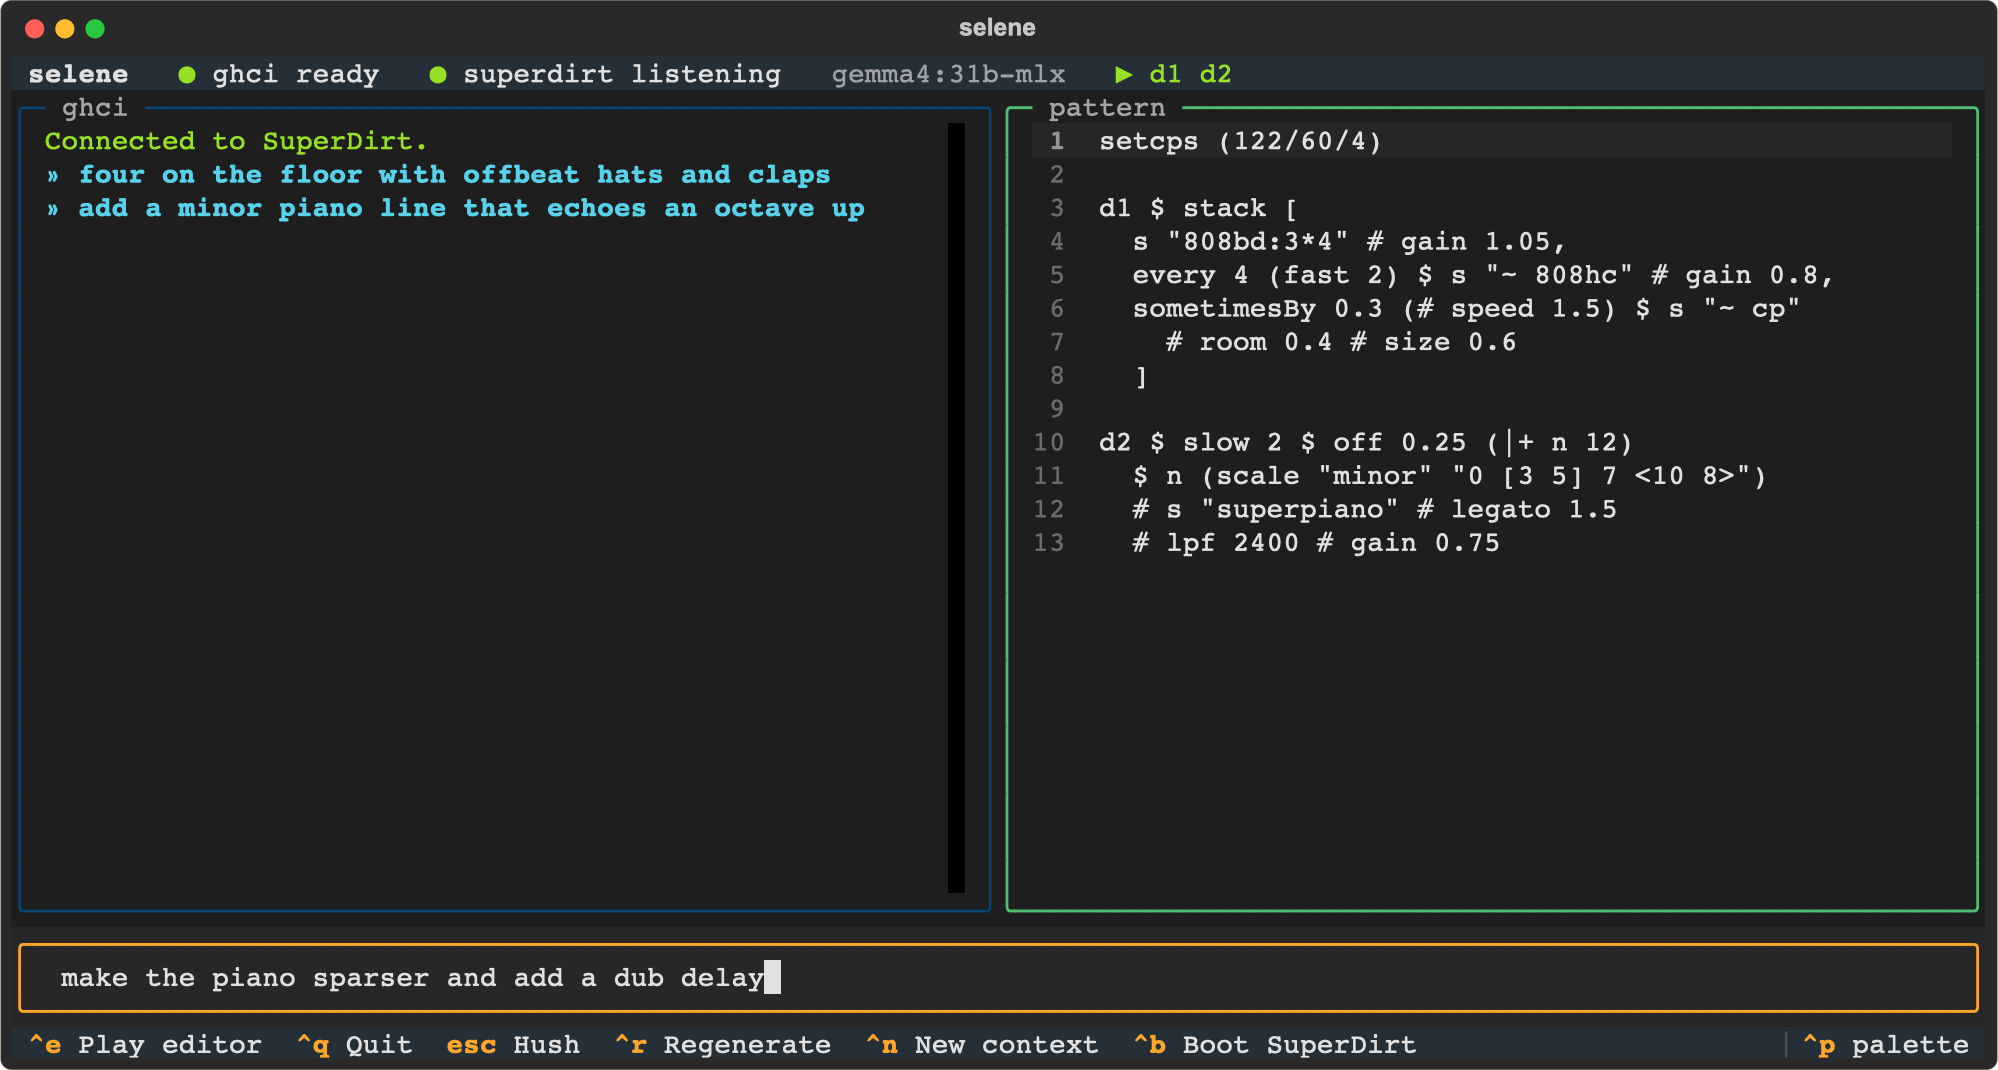
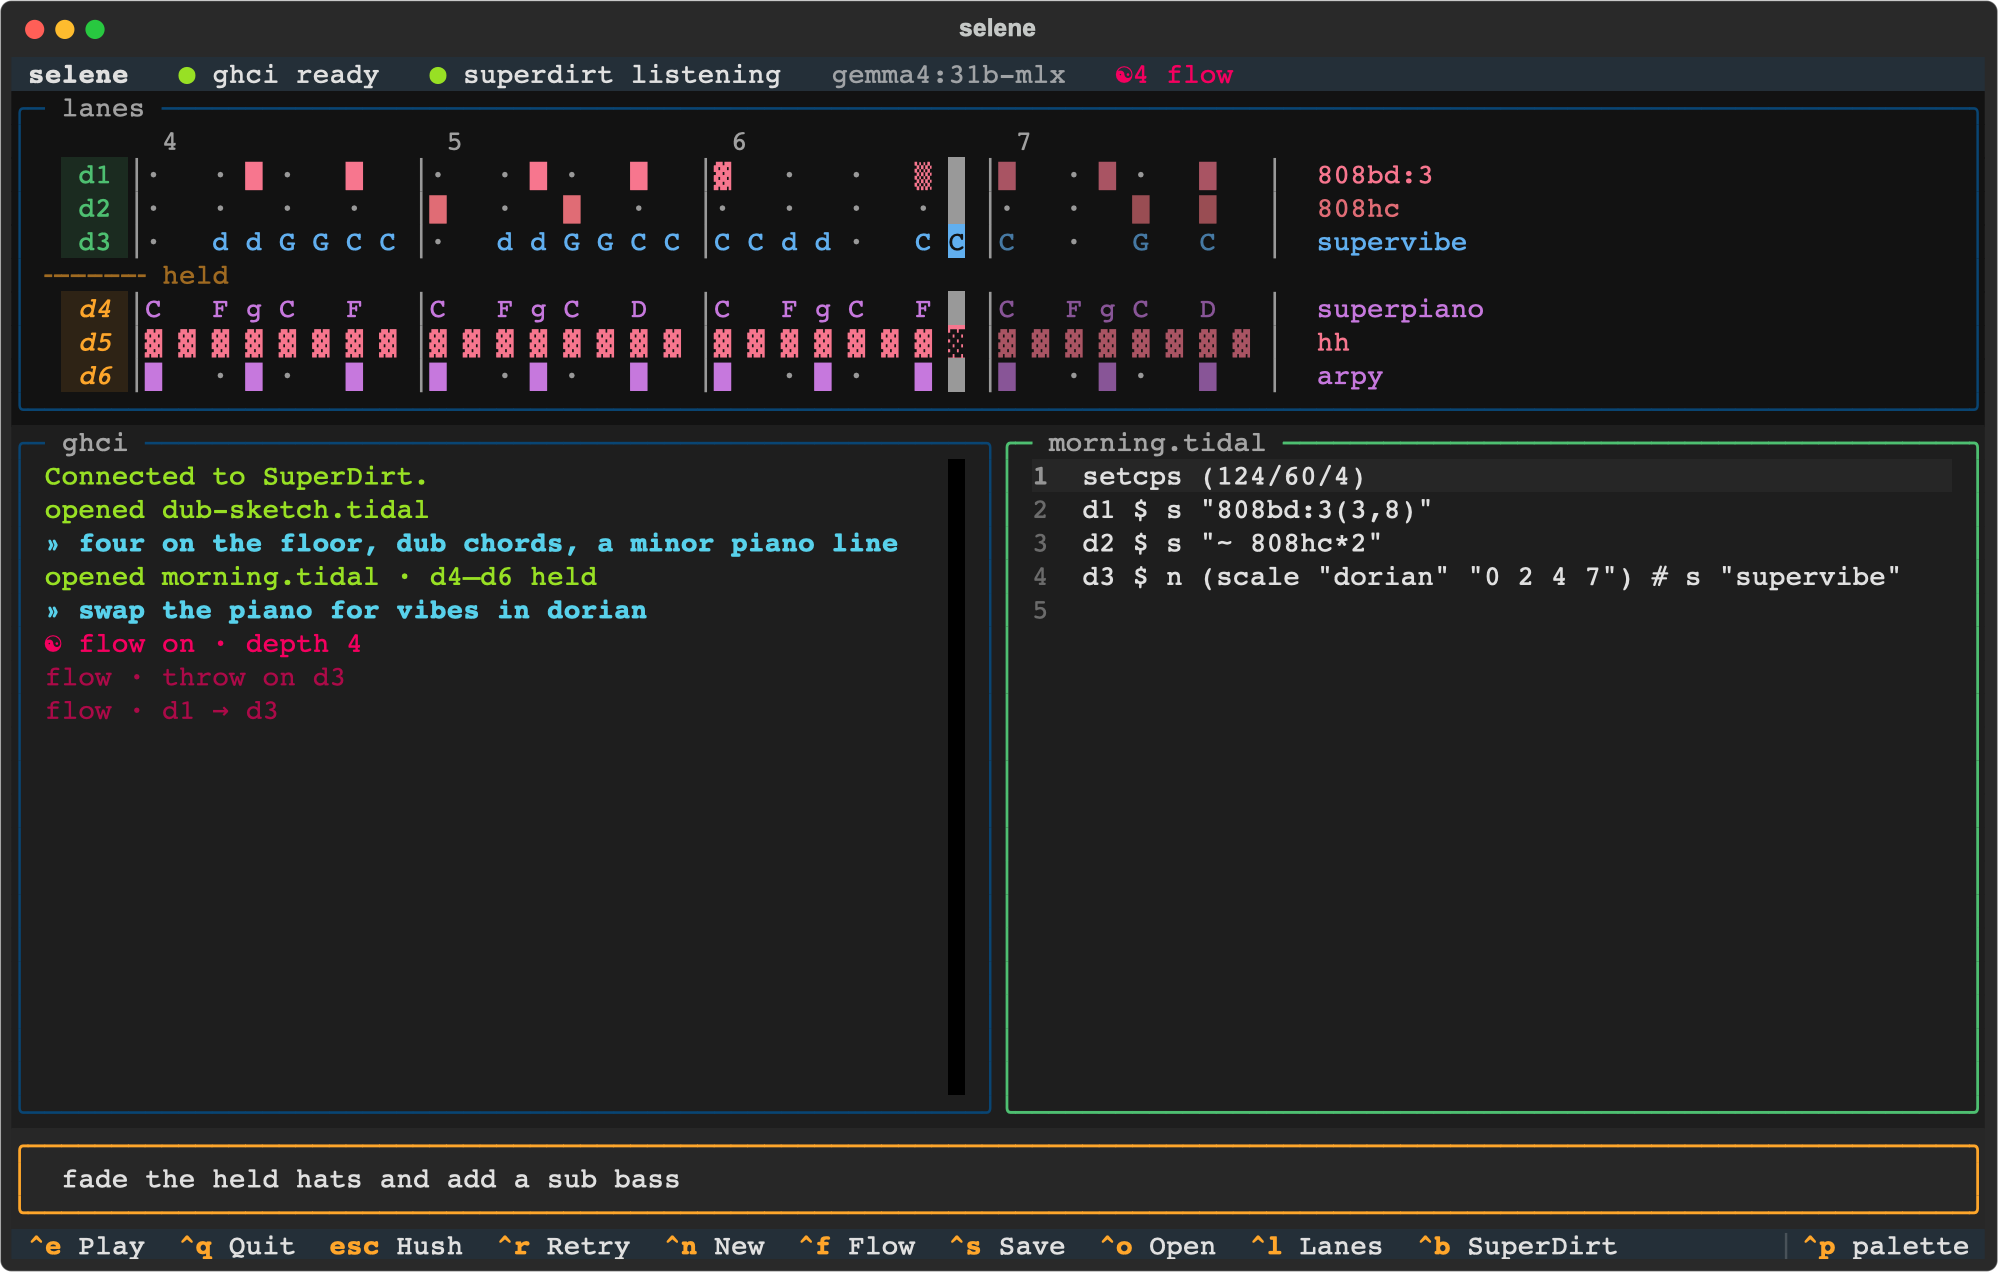
New README screenshot: lanes, held layers and Flow at depth 4
Also: the --boot warning when turning Flow on now checks the file for the
SELENE_CTRL_PORT / SELENE_TAP_PORT lines instead of warning about any boot
file other than the bundled one.

diff --git a/selene/app.py b/selene/app.py
@@ -763,12 +763,19 @@ class Selene(App):
         self._flow_rebase(player=False)
         self._set(flow="flow")
         self.log_line(f"☯ flow on · depth {self.flow_depth}", "magenta")
-        if self.args.boot != str(BUNDLED_BOOT):
-            self.log_line("flow needs SELENE_CTRL_PORT support in a custom --boot "
-                          "(see the bundled BootTidal.hs)", "yellow")
+        if not self._boot_supports_flow():
+            self.log_line("flow needs the SELENE_CTRL_PORT and SELENE_TAP_PORT lines from the "
+                          "bundled BootTidal.hs in your --boot file", "yellow")
         if self.playing_code:
             # Re-evaluate with the wrappers; at neutral they change nothing audible.
             self.evaluate(self.playing_code, source="flow")
+
+    def _boot_supports_flow(self) -> bool:
+        try:
+            text = Path(self.args.boot).read_text(errors="ignore")
+        except OSError:
+            return False
+        return "SELENE_CTRL_PORT" in text and "SELENE_TAP_PORT" in text
 
     def _flow_stop(self, log: bool = True) -> None:
         for handle in self.flow_pending:
